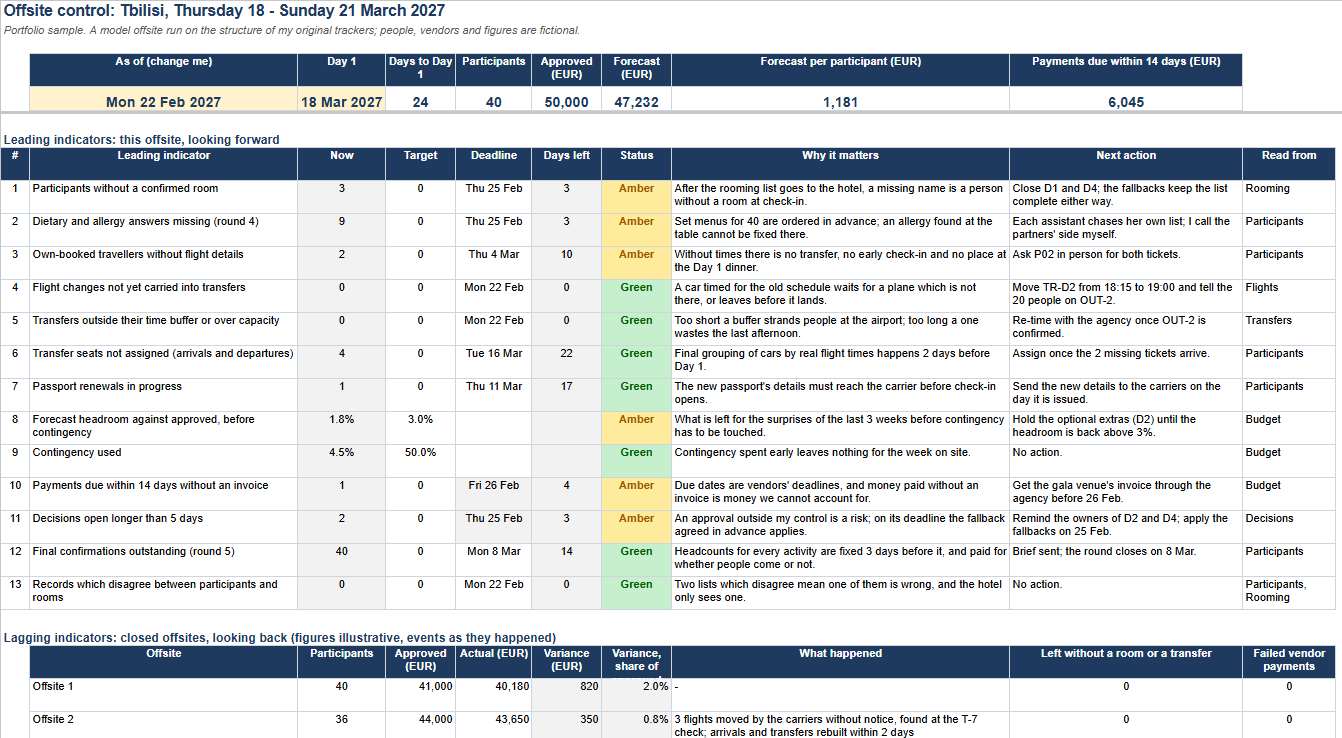
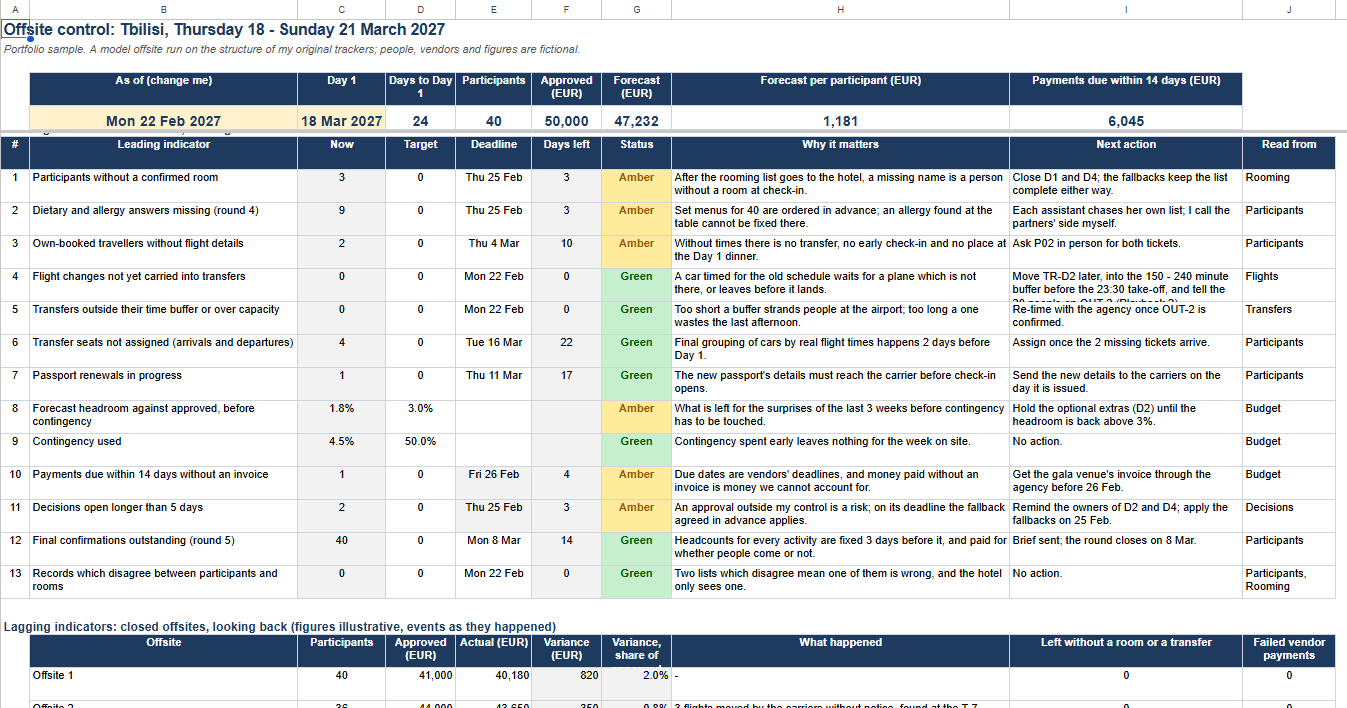
Yes/no checkpoints that spell out what is approved; run 2 in the log; build notes trimmed to what matters
Claude-Session: https://claude.ai/code/session_01454GT387qxoBjMBR3oQfAu

diff --git a/03-agent-playbook/README.md b/03-agent-playbook/README.md
@@ -2,22 +2,22 @@
 
 **Where it comes from.** At one of the firm's offsites a routine recheck, a week before departure, found that the carriers had moved 3 flights and told nobody: a car timed for the old schedule waits for a plane which is not there. It was resolved in 2 working days and nobody was lost, and afterwards I wrote it down as Playbook 2 of the offsite plan. In the model offsite of my portfolio it happens again: on 19 February the carrier moves OUT-2 from 22:40 to 23:30, and the departure transfer for 20 people stays where it was.
 
-**What is new here.** The guidebook I wrote for my successor was meant for a person. [PLAYBOOK_2.md](PLAYBOOK_2.md) is written so that an AI agent connected to the workbook can follow it as well: the same steps, plus what the agent may and may not touch, and 2 checkpoints where it stops and waits for the coordinator. The agent finds the change, works out the new transfer within the buffer rules, lists the knock-on effects and drafts the messages; the decisions, and everything which leaves the team, stay with the coordinator.
+**What is new here.** The guidebook I wrote for my successor was meant for a person. [PLAYBOOK_2.md](PLAYBOOK_2.md) is written so that an AI agent connected to the workbook can follow it as well: the same steps, plus what the agent may and may not touch, and the points where it stops and waits for the coordinator. The agent finds the change, works out the new transfer within the buffer rules, lists the knock-on effects and drafts the messages; the decisions, and everything which leaves the team, stay with the coordinator.
 
-**Why it is written this way.** A flight change is found when everybody is busiest, and that is exactly when attention is lowest: a coordinator, or a partner who has to approve something between 2 meetings, skims, answers "yes" to a block of text and misses the one line which mattered. So the agent asks 1 thing at a time, with the facts on 3 lines and the reply ready to copy, and does not move on without an answer which names what was decided. The whole run takes 4 one-line replies at most.
+**Why it is written this way.** A flight change is found when everybody is busiest, and that is exactly when attention is lowest: a coordinator, or a partner who approves things between 2 meetings and answers most emails with "yes", reads the first line and misses the one which mattered. So the agent asks 1 thing at a time, with the facts on 2 - 3 lines, and spells out what a "yes" approves and what a "no" means, so that a one-word answer is still a precise one. The whole run takes 3 - 4 replies, most of them a single word.
 
 ## Run it yourself in 5 minutes
 
 1. **Make your own copy of the workbook.** Open the [offsite control workbook](https://docs.google.com/spreadsheets/d/1VDJnpJWNu_MXEThhQAgW-Vc-XflvHn3kSKLHj5RXNk0/edit?usp=sharing), then File → Make a copy. Keep the link to your copy.
 2. **Open an AI assistant which can work in Google Sheets**, for example Claude with the Google Sheets connector switched on, signed in with the Google account which owns the copy.
 3. **Give it the task.** Open [PROMPT.md](PROMPT.md), click "Copy raw file" (the icon at the top right of the file), paste it into a new chat, replace `PASTE THE LINK TO YOUR COPY HERE` with the link from step 1, and send.
-4. **Answer its questions.** Each comes with the reply to copy. With the workbook as it is, expect 3:
+4. **Answer its questions.** With the workbook as it is, expect 3, and "yes" is a full answer to each:
 
-| The agent asks | You reply |
+| The agent asks | "Yes" means |
 | --- | --- |
-| Is OUT-2 now at 23:30? | `23:30 confirmed` |
-| Move the transfer TR-D2 from 19:00 to 20:15? | `20:15 approved` |
-| Approve the 5 drafts (3 assistants, the agency, the hotel)? | `Drafts 1 - 5 approved` |
+| Is OUT-2 now at 23:30? | The carrier's notice says 23:30 |
+| Move the transfer TR-D2 from 19:00 to 20:15? | Write 20:15 into the workbook and mark the change as carried through |
+| Approve the 5 drafts (3 assistants, the agency, the hotel)? | All 5 as shown, ready for you to send |
 
 5. **Check the result** against the table and the screenshots below. Nothing has been sent to anybody: the drafts are in the chat, for you to send.
 
@@ -29,7 +29,7 @@
 | Flights, OUT-2, "Transfer updated" | No | Yes |
 | Control, flight changes not carried into transfers | 1, red | 0, green |
 | Control, transfers outside their buffer | 1, red | 0, green |
-| Knock-on effects listed | | Luggage storage until 20:15 for the rooms on the late flight; late check-out until 18:00 still open as decision D3; museum programme unchanged |
+| Knock-on effects listed | | Luggage room until 20:00 for the rooms checking out on Sunday; late check-out until 18:00 still open as decision D3; museum programme unchanged |
 | Drafts | | 3 to the assistants (3, 11 and 6 names), 1 to the agency, 1 to the hotel |
 
 | Control before the run | Control after the run |
@@ -38,16 +38,15 @@
 
 ## Run log
 
-**First run, 30 October 2026**, on a copy of the workbook, with Claude connected to Google Sheets; I acted as the coordinator.
+2 runs on 30 October 2026, each on a fresh copy of the workbook, with Claude connected to Google Sheets and me as the coordinator.
 
-| Step | What the agent did | What I did |
-| --- | --- | --- |
-| 1 - 2 | Found OUT-2 as the only leg changed and not carried through, and asked me to confirm 23:30 from the carrier's notice rather than taking the workbook's word for it | Answered at checkpoint 1 |
-| 3 | Proposed 20:15 (195 minutes, the middle of the range) and pointed out that the expected result in this README, 20:00, did not follow the playbook's own rule | Agreed: the README was wrong, not the agent |
-| Checkpoint 1 | Asked 3 questions at once: is 23:30 confirmed, 20:15 or 20:00, and where the meeting point is | Answered "I confirm", which the agent took as approval of all 3 |
-| 4 | Wrote 3 cells, each named before and after | |
-| 5 | Listed 6 knock-on effects, 2 of which I had not planned for: room R22, on the late flight, had no luggage arrangement at all, and the departure slot had no meeting point anywhere in the workbook | |
-| Checkpoint 2 | Showed 5 drafts, the assistants' ones with "[meeting point]" left open | Answered "I confirm" again |
-| 7 | Control: both red indicators green. Reported 2 things it was not allowed to fix: a stale "Next action" on Control and the README | |
+**Run 1** did what the playbook asked and found more than it was asked to:
+- it took the new flight time from the coordinator, not from the workbook;
+- it proposed 20:15 by the playbook's own rule and noticed that the expected result written here had said 20:00;
+- it found 2 gaps nobody had planned for: 1 room on the late flight with no luggage arrangement, and no meeting point for the departure anywhere in the workbook.
 
-**What the run taught, and what I changed.** The agent did its part as written; the weak point was the checkpoints, that is, me: "I confirm" approved a package of 3 questions, and later drafts which could not have gone out as they stood. The agent said so itself at the end of its report. So the playbook now asks 1 question at a time, accepts only an approval which names what it approves, and does not let a draft with a gap be approved at all; the departure slots in the workbook got a meeting point, the stale text on Control was corrected, and R22 went into the hotel request. The changes are listed at the end of [PLAYBOOK_2.md](PLAYBOOK_2.md).
+It also showed where the procedure itself was weak: its checkpoints asked several questions in 1 message, and a general "I confirm", which is how approvals get given under pressure, was enough to pass them all, including drafts with a gap still in them.
+
+**What changed after run 1.** 1 question per message; each question states what "yes" approves and what happens on "no"; a draft with a gap is never shown for approval; the meeting point and the luggage arrangement went into the workbook.
+
+**Run 2** went through in 3 single-line replies: 23:30 confirmed, 20:15 approved, drafts 1 - 5 approved. Both red indicators turned green, nothing was written before it was approved, and the report listed 4 things outside the agent's permissions for the coordinator to fix, among them an own-booked return flight whose times coincided exactly with the new OUT-2 times, which was worth a second look. The 2 which concern the workbook itself, the luggage note and that flight, are now corrected in the original.

diff --git a/03-agent-playbook/PLAYBOOK_2.md b/03-agent-playbook/PLAYBOOK_2.md
@@ -24,18 +24,18 @@ QUESTION 1 (of up to 4) · Confirm the new flight time
 OUT-2, Sunday 21 March: the workbook says the carrier moved it from 22:40 to 23:30 (notice of 19 Feb).
 Does the carrier's notice, or its website today, say 23:30?
 
-Reply with:   23:30 confirmed
-or with the time the carrier gives.
+YES  = the carrier says 23:30. Next I work out the new transfer time.
+NO   = the carrier says something else. Reply with the time it gives; I stop and correct the workbook first.
 ```
 
 - The first line says which question it is and what it is about.
 - Then only what is needed to decide: names, times and places, no cell addresses (those go in the report).
-- Then the exact reply to copy, and what to write instead if the answer is no.
+- Then what "yes" approves, exactly, and what happens on "no". A busy person answers with 1 word, so the word has to carry the whole decision: "yes" approves everything on the YES line and nothing else.
 - Anything else you noticed goes after the question under "For information, no reply needed", never mixed into it.
-- Accept only a reply which names what it approves. "Yes", "ok" or "I confirm" to anything but a single yes/no question approves nothing in particular: ask again, with the reply to copy.
+- If a reply is ambiguous ("ok", "fine", a question back, or "yes" to a message which somehow asked 2 things), do not act: repeat the YES and NO lines and ask again.
 - A draft with a gap in it (a placeholder, a missing time or place) is never shown for approval: ask for what is missing first.
 
-The coordinator should be able to run the whole playbook by replying 4 times, each in 1 line.
+The coordinator should be able to run the whole playbook with 3 - 4 replies, most of them a single word.
 
 ## Steps
 
@@ -49,20 +49,20 @@ Ask, as in the example above, whether the carrier's notice or its website today 
 On Transfers, find the slot of that leg. Read the buffer limits on Lists (arrivals 30 - 75 minutes after landing, departures 150 - 240 minutes before take-off). Propose a new time inside the limits, rounded to 15 minutes, as close to the middle of the range as the programme allows (for a departure: take-off minus 195 minutes), and check that "Names assigned" still fits "Capacity".
 
 **4. Question 2, checkpoint 1: approve the new pick-up time.**
-Show 1 small table: slot, old time, new time, buffer before and after, people on it, seats. Reply to copy: "20:15 approved" (with the time you propose). Write nothing until then. After the approval, write the new time into the slot, set "Transfer updated" on Flights to Yes and replace the note on the slot with the date and what changed.
+Show 1 small table: slot, old time, new time, buffer before and after, people on it, seats. YES = write the new time into the workbook and mark the change as carried through. NO = keep the old time; ask which time the coordinator wants instead. Write nothing until the answer. After the approval, write the new time into the slot, set "Transfer updated" on Flights to Yes and replace the note on the slot with the date and what changed.
 
 **5. Find the knock-on effects.**
 At least: hotel check-out and luggage for the people on that leg (Rooming, and any open decision on Decisions which concerns them), the last programme item of that day (Programme), and the group transfer vendor. List each with what has to happen and who decides. This list is for information: it does not wait for a reply.
 
 **6. Question 3, only if something is missing for the drafts.**
-For example, the meeting point, if the slot's note does not give one. Ask for that 1 thing, with the reply to copy.
+For example, the meeting point, if the slot's note does not give one. Ask for that 1 thing, with what the answer will be used for.
 
 **7. Question 4, checkpoint 2: approve the drafts.**
 Draft, complete and with nothing left open:
 - 1 message per assistant with only the names of their people on that leg (from "Collected by"), the new pick-up time and the meeting point, for the assistant to forward;
 - 1 message to the agency about the changed slot;
 - 1 message to the hotel about check-out and luggage.
-Show them numbered, each in its own block. Reply to copy: "Drafts 1 - 5 approved", or the numbers of the ones to change and what to change. After the approval, record on the slot's note that the messages were approved and when.
+Show them numbered, each in its own block. YES = all of them, exactly as shown, are ready for the coordinator and the assistants to send. NO = name the numbers to change and what to change; nothing is approved until then. After the approval, record on the slot's note that the messages were approved and when.
 
 **8. Check the result and report.**
 On Control, the indicators "Flight changes not yet carried into transfers" and "Transfers outside their time buffer or over capacity" should now be 0 for this leg. Report in this order:
@@ -75,6 +75,6 @@ On Control, the indicators "Flight changes not yet carried into transfers" and "
 
 ## Changes after the first run (30 October 2026)
 
-- 1 question per message, each with the reply to copy, and only an approval which names what it approves: in the first run "I confirm" was accepted as approval of 3 questions at once, and later of drafts with a gap in them.
+- 1 question per message, each stating what "yes" approves and what happens on "no", so that a single word is a precise answer: in the first run a general "I confirm" passed 3 questions at once, and later drafts with a gap in them.
 - The departure rule now gives the number (take-off minus 195 minutes), since the README and the rule disagreed and the agent was right.
 - Drafts take the meeting point from the slot's note, the departure slots now have one, and a missing detail is asked for before the drafts, not left as a placeholder in them.

diff --git a/03-agent-playbook/PROMPT.md b/03-agent-playbook/PROMPT.md
@@ -30,18 +30,18 @@ QUESTION 1 (of up to 4) · Confirm the new flight time
 OUT-2, Sunday 21 March: the workbook says the carrier moved it from 22:40 to 23:30 (notice of 19 Feb).
 Does the carrier's notice, or its website today, say 23:30?
 
-Reply with:   23:30 confirmed
-or with the time the carrier gives.
+YES  = the carrier says 23:30. Next I work out the new transfer time.
+NO   = the carrier says something else. Reply with the time it gives; I stop and correct the workbook first.
 ```
 
 - The first line says which question it is and what it is about.
 - Then only what is needed to decide: names, times and places, no cell addresses (those go in the report).
-- Then the exact reply to copy, and what to write instead if the answer is no.
+- Then what "yes" approves, exactly, and what happens on "no". A busy person answers with 1 word, so the word has to carry the whole decision: "yes" approves everything on the YES line and nothing else.
 - Anything else you noticed goes after the question under "For information, no reply needed", never mixed into it.
-- Accept only a reply which names what it approves. "Yes", "ok" or "I confirm" to anything but a single yes/no question approves nothing in particular: ask again, with the reply to copy.
+- If a reply is ambiguous ("ok", "fine", a question back, or "yes" to a message which somehow asked 2 things), do not act: repeat the YES and NO lines and ask again.
 - A draft with a gap in it (a placeholder, a missing time or place) is never shown for approval: ask for what is missing first.
 
-The coordinator should be able to run the whole playbook by replying 4 times, each in 1 line.
+The coordinator should be able to run the whole playbook with 3 - 4 replies, most of them a single word.
 
 ## Steps
 
@@ -55,20 +55,20 @@ Ask, as in the example above, whether the carrier's notice or its website today 
 On Transfers, find the slot of that leg. Read the buffer limits on Lists (arrivals 30 - 75 minutes after landing, departures 150 - 240 minutes before take-off). Propose a new time inside the limits, rounded to 15 minutes, as close to the middle of the range as the programme allows (for a departure: take-off minus 195 minutes), and check that "Names assigned" still fits "Capacity".
 
 **4. Question 2, checkpoint 1: approve the new pick-up time.**
-Show 1 small table: slot, old time, new time, buffer before and after, people on it, seats. Reply to copy: "20:15 approved" (with the time you propose). Write nothing until then. After the approval, write the new time into the slot, set "Transfer updated" on Flights to Yes and replace the note on the slot with the date and what changed.
+Show 1 small table: slot, old time, new time, buffer before and after, people on it, seats. YES = write the new time into the workbook and mark the change as carried through. NO = keep the old time; ask which time the coordinator wants instead. Write nothing until the answer. After the approval, write the new time into the slot, set "Transfer updated" on Flights to Yes and replace the note on the slot with the date and what changed.
 
 **5. Find the knock-on effects.**
 At least: hotel check-out and luggage for the people on that leg (Rooming, and any open decision on Decisions which concerns them), the last programme item of that day (Programme), and the group transfer vendor. List each with what has to happen and who decides. This list is for information: it does not wait for a reply.
 
 **6. Question 3, only if something is missing for the drafts.**
-For example, the meeting point, if the slot's note does not give one. Ask for that 1 thing, with the reply to copy.
+For example, the meeting point, if the slot's note does not give one. Ask for that 1 thing, with what the answer will be used for.
 
 **7. Question 4, checkpoint 2: approve the drafts.**
 Draft, complete and with nothing left open:
 - 1 message per assistant with only the names of their people on that leg (from "Collected by"), the new pick-up time and the meeting point, for the assistant to forward;
 - 1 message to the agency about the changed slot;
 - 1 message to the hotel about check-out and luggage.
-Show them numbered, each in its own block. Reply to copy: "Drafts 1 - 5 approved", or the numbers of the ones to change and what to change. After the approval, record on the slot's note that the messages were approved and when.
+Show them numbered, each in its own block. YES = all of them, exactly as shown, are ready for the coordinator and the assistants to send. NO = name the numbers to change and what to change; nothing is approved until then. After the approval, record on the slot's note that the messages were approved and when.
 
 **8. Check the result and report.**
 On Control, the indicators "Flight changes not yet carried into transfers" and "Transfers outside their time buffer or over capacity" should now be 0 for this leg. Report in this order:
@@ -81,6 +81,6 @@ On Control, the indicators "Flight changes not yet carried into transfers" and "
 
 ## Changes after the first run (30 October 2026)
 
-- 1 question per message, each with the reply to copy, and only an approval which names what it approves: in the first run "I confirm" was accepted as approval of 3 questions at once, and later of drafts with a gap in them.
+- 1 question per message, each stating what "yes" approves and what happens on "no", so that a single word is a precise answer: in the first run a general "I confirm" passed 3 questions at once, and later drafts with a gap in them.
 - The departure rule now gives the number (take-off minus 195 minutes), since the README and the rule disagreed and the agent was right.
 - Drafts take the meeting point from the slot's note, the departure slots now have one, and a missing detail is asked for before the drafts, not left as a placeholder in them.

diff --git a/02-ledger-cleanup/README.md b/02-ledger-cleanup/README.md
@@ -9,19 +9,17 @@
 
 **How to run them.** Windows with Microsoft Excel, then `pip install openpyxl pywin32`. The fictional sample is in `sample/ledgers` (3 quarters of a company called Northwind). Make a copy of the folder, because `normalize_ledgers.py` changes the files in place, and run it once; then `python consolidate_ledgers.py` writes `Summary.xlsx` into the same folder. Without Windows the first script does everything except the Excel step and says so.
 
-## The rounds with ChatGPT
+## How it was built
 
-40 rounds in 1 chat, here by stage.
+The work went stage by stage: the empty columns, the header, the total and the print, the Excel step, then the second folder and the summary. The problems worth knowing about, and how each was caught:
 
-| Rounds | Stage | What went wrong, and what fixed it |
+| Problem | How it showed | What fixed it |
 | --- | --- | --- |
-| 1 - 4 | Empty columns | The first script deleted the empty columns but wiped the header block and mixed up the column headers, because of the merged cells; unmerging first did not help, and only 1 sheet was processed. I specified the approach: cut the header block out first, delete the columns, then write the block back. |
-| 5 - 9 | Header layout | The header text was too long for single cells, so I asked for merged blocks. 2 runs failed with "MergedCell is read-only", since values were written into cells already merged and the merges overlapped; the AI changed the order. After checking the original I corrected the layout twice (where the title goes, and that the values sit in column F, not B) and asked to clear the header formatting. |
-| 10 - 12 | Print | A separate script for PDF in A4 landscape with all columns on 1 page wide. When I asked for all of it at once for the second folder, the AI gave only the export, so I asked for 1 run doing both, the clean-up first. |
-| 13 - 25 | Total and widths | The bold total, the thousands separator and text wrap came quickly. Then 12 rounds on row heights and column widths: the AI first presented a row "autofit" which openpyxl cannot do, then a row autofit through Excel which did not work either, then computed column widths which still turned the numbers into "######" when printed, and only after several rounds of "it does not work" did it state that a real AutoFit of widths exists only in Excel. The last step moved into Excel itself. |
-| 26 - 31 | The Excel step | I asked to turn the header text sideways to save width. 2 errors from Excel (orientation set on rows instead of a range, Save failing where SaveAs works) and 3 regressions which I caught: the total was no longer bold and was counted twice when the script ran again, the header values from column F disappeared, and after these fixes the script had stopped deleting the empty columns at all, which was the original task. |
-| 32 - 34 | Header text | The header text disappeared completely. The AI's first explanation and fix changed nothing; the second put the steps in the right order (save the header, delete the columns, rebuild the header). Then 8 pt, rows 14 - 15 bold and row 13 cleared. |
-| 35 - 40 | Second folder and the summary | The purchases folder with its own total column, and row 14 left horizontal. Then the summary script, its layout (grey bold header, double line under each quarter, no blank rows between quarters, bold grand total) and its version for the other folder. |
+| Merged cells | Deleting the empty columns wiped the header block and mixed up the column headers; writing into merged cells failed with "MergedCell is read-only" | The order of work: save the header block first, delete the columns, then write the block back into fresh merged cells |
+| Column widths | Computed widths still printed long numbers as "######" | Testing showed that a real AutoFit exists only in Excel, so the last step runs in Excel itself |
+| Regressions | A fix in one part quietly broke another: the total lost its bold, and once the script stopped deleting the empty columns, which was the whole task | Every version checked against the earlier results as well, not only the new change |
+| A fix which fixed nothing | The header text disappeared, and the first fix offered for it changed nothing in the test run | The steps put in the right order: save the header, delete the columns, rebuild the header |
+| The grand total | At the final check against the source files the summary showed twice the real total | Corrected in the table before it was sent; for publication, fixed in the script itself (see below) |
 
 ## Prepared for publication
 
@@ -29,7 +27,7 @@ The paths and the column to total are settings at the top of each script, the co
 
 3 problems of `consolidate_ledgers.py` are fixed here and marked in the code:
 
-1. A file which has already been through `normalize_ledgers.py` ends with its own total, and the summary took that row as an entry, so the grand total came out twice the real one. I caught it at the final run in January and, rather than going one more round with the AI, corrected the total in the table by hand; here the script itself skips the rows with the bold total.
+1. A file which has already been through `normalize_ledgers.py` ends with its own total, and the summary took that row as an entry, so the grand total came out twice the real one. I caught it at the final check in January and corrected the total in the table before it was sent; here the script itself skips the rows with the bold total.
 2. `Summary.xlsx` lies in the same folder and was read as one more input on a second run. It is now left out.
 3. The grand total also added the column number from the second header row. It now counts from the first entry.
 

diff --git a/README.md b/README.md
@@ -1,24 +1,24 @@
 # Working with AI: 2 scripts from January 2026 and an agent playbook from October
 
-Two real tasks from my work in the operations of a law firm in Moscow, January 2026, which I solved with Python scripts written by ChatGPT to my specification. I do not write code myself: my part was to describe the task and the files precisely enough, to run every version on the real files and to say what exactly came out wrong, including the cases where the AI reported a fix which in fact had not happened, until the result did what the task needed.
+Two real tasks from my work in the operations of a law firm in Moscow, January 2026, which I solved with Python scripts written by ChatGPT to my specification. I do not write code myself: my part was to describe the task and the files precisely enough, to run every version on the real files and to say exactly what came out wrong, until the result did what the task needed.
 
-Both scripts are simple by today's standards. In January 2026, though, I worked with AI in a chat window, and every version travelled from the chat to my computer and back: 9 rounds for the first task and 40 for the second, most of them spent catching what the AI reported as fixed and was not.
+Both scripts are simple by today's standards. In January 2026, though, AI worked in a chat window and could not see my files or run anything: every version travelled from the chat to my computer and back, and the real work was in the checking.
 
-Case 3 is from October 2026 and is of another kind: not a script, but one of my offsite procedures rewritten so that an AI agent working inside the workbook can follow it, under 2 checkpoints, with the log of its first run and what I changed after it.
+Case 3 is from October 2026 and is of another kind: not a script, but one of my offsite procedures rewritten so that an AI agent working inside the workbook can follow it, under checkpoints, with the log of its runs.
 
 All data in the samples is fictional. The real files were confidential and are not published; the scripts processed them on my own machine.
 
-| Case | The task | Rounds | Result |
-| --- | --- | --- | --- |
-| [1. Rows grouped by colour](01-group-rows-by-highlight/) | Monthly time entries for the firm's key client: put together the rows of a Word table which are marked with the same colour | 9 | 1 script, used for the monthly report |
-| [2. Ledger clean-up](02-ledger-cleanup/) | Folders of quarterly VAT ledger exports: delete the empty columns, rebuild the header, add the total, fit the print, then 1 summary table per folder | 40 | 2 scripts, used on 2 folders |
-| [3. A playbook for a person or an AI agent](03-agent-playbook/) (October 2026) | The offsite playbook for a flight moved by the carrier, rewritten so that an AI agent connected to the workbook can follow it, with 2 checkpoints where it waits for the coordinator | 1 run, logged | The playbook, tightened after the run |
+| Case | The task | Result |
+| --- | --- | --- |
+| [1. Rows grouped by colour](01-group-rows-by-highlight/) (January 2026) | Monthly time entries for the firm's key client: put together the rows of a Word table which are marked with the same colour | 1 script, used for the monthly report |
+| [2. Ledger clean-up](02-ledger-cleanup/) (January 2026) | Folders of quarterly VAT ledger exports: delete the empty columns, rebuild the header, add the total, fit the print, then 1 summary table per folder | 2 scripts, used on 2 folders |
+| [3. A playbook for a person or an AI agent](03-agent-playbook/) (October 2026) | The offsite playbook for a flight moved by the carrier, rewritten so that an AI agent connected to the workbook can follow it, stopping for the coordinator's approval | The playbook, 2 logged runs, and a 5-minute guide to run it yourself |
 
 ## How I worked with the AI
 
 - The input described exactly: which rows and columns hold what, where the colour sits, what may and what may not be deleted, with cell addresses as Excel shows them.
 - After every run, what I saw rather than what I guessed ("only the uncoloured rows came together, the coloured ones are still mixed"), and the error message pasted as it was.
-- The whole script asked for every time, not a fragment to splice in, so that nothing which already worked got lost between rounds.
-- Every version checked by eye against the source files; most of the rounds in the logs below are what this check caught.
+- The whole script asked for every time, not a fragment to splice in, so that nothing which already worked got lost on the way.
+- Every version checked by eye against the source files, including the parts which had worked before.
 
-Each folder has the script, a fictional sample to run it on and a log of the rounds. The code is the last version I used, cleaned up for publication in October 2026 with Claude: the paths, the client-specific settings and the comments, plus 3 fixes in 1 script which are listed and marked in the code.
+Each folder has the script, a fictional sample to run it on and a short account of the problems worth knowing about and how each was caught. The code is the last version I used, cleaned up for publication in October 2026: the paths, the client-specific settings and the comments, plus 3 fixes in 1 script which are listed and marked in the code.

diff --git a/01-group-rows-by-highlight/README.md b/01-group-rows-by-highlight/README.md
@@ -10,19 +10,16 @@
 
 **How to run it.** `pip install python-docx`, then `python group_rows_by_highlight.py`: it reads `sample/billing_sample.docx` and writes `sample/billing_sample_grouped.docx`. The input has to be .docx, so an old .doc file is first saved as .docx in Word.
 
-## The rounds with ChatGPT
+## How it was built
 
-| Round | What I gave or saw | What was wrong | What changed |
-| --- | --- | --- | --- |
-| 1 | The layout of the table with a few sample rows, and the task in 1 sentence | | The AI explained that Word stores no "colour of a row" and sketched a script grouping by cell shading and highlighter |
-| 2 | Asked for a script for my file, saving the result next to it under a new name | | A first full script |
-| 3 | The run stopped: no module named docx, and my file was .doc | python-docx was not installed and cannot read .doc at all | Installed python-docx, saved the file as .docx |
-| 4 | Asked for the whole script again for the .docx | | |
-| 5 | The run went through, but only the uncoloured rows came together, the coloured ones were still mixed | The colour sat in a 3rd place, paragraph shading, which the script did not read | The key rewritten to paragraph shading |
-| 6 | Pointed out that some rows were shaded and others highlighted, so all ways had to count | The new key ignored the highlighter | 1 key from all 3 places, and the grouping worked |
-| 7 | Asked for 1 empty row before each group and 4 after it | | Done |
-| 8 | SyntaxError in line 1 | I had copied the code together with its markdown fence | Fence removed |
-| 9 | FileNotFoundError on saving | The AI had doubled a folder in the output path | Path fixed; this is the version I kept using for the report |
+I described the table and the task, and the AI first explained that Word stores no "colour of a row" at all, then wrote a script grouping the rows by cell shading and highlighter. 2 problems were worth knowing about:
+
+| What the test run showed | Why | What fixed it |
+| --- | --- | --- |
+| Only the uncoloured rows came together; the coloured ones stayed mixed | In these files the colour sat in a 3rd place, the shading of the paragraph inside the cell, which the script did not read | The script reads all 3 places and treats the set of colours as the key |
+| Saving failed with "file not found" | The AI had doubled a folder in the output path | The path, which is now a setting at the top of the script |
+
+Then the layout the report needed: 1 empty row before each group and 4 after it. This is the version I used for the monthly report from then on.
 
 ## Prepared for publication
 
